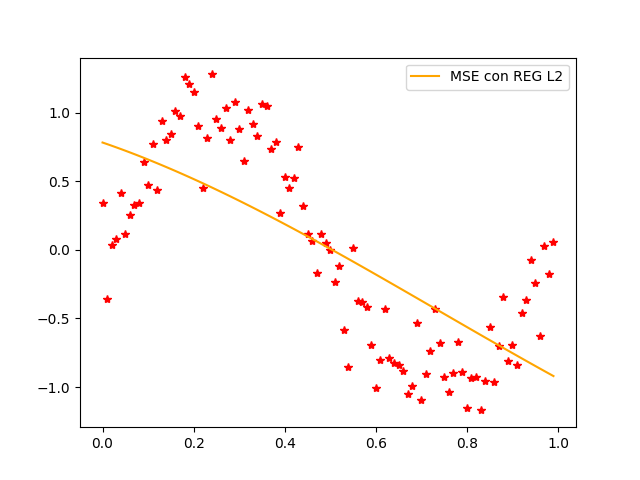
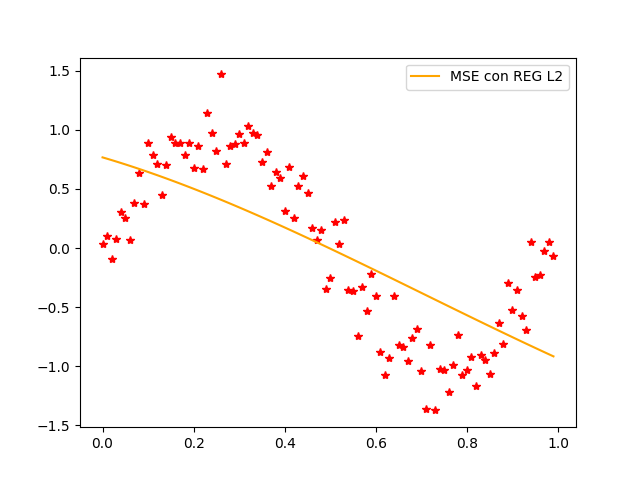
Sample random data txt Update imgs

diff --git a/main.py b/main.py
@@ -6,16 +6,30 @@ import numpy as np
 import matplotlib.pyplot as plt
 
 if __name__ == '__main__':
-    x_temp = np.arange(0, 1, 0.01)
-    y_temp = [np.sin(2 * i * np.pi) + np.random.normal(0, 0.2) for i in x_temp]
+    #x_temp = np.arange(0, 1, 0.01)
+    #y_temp = [np.sin(2 * i * np.pi) + np.random.normal(0, 0.2) for i in x_temp]
     #x_temp = [0.,   0.05, 0.1,  0.15, 0.2,  0.25, 0.3,  0.35, 0.4,  0.45, 0.5,  0.55, 0.6,  0.65, 0.7,  0.75, 0.8,  0.85, 0.9,  0.95]
     #y_temp = [-0.08689237658958435, 0.4548941435012709, 0.4312948104649044, 0.9309011151536833, 0.7717900271877763, 1.018389804588197, 1.0972791099536208, 0.9462734992156075, 0.3911055917305431, 0.4241021343207704, 0.2307095831027754, -0.5737502875585576, -0.8575154310342636, -0.39833869857922777, -1.0319552596206825, -1.10873846045265, -1.370575786122702, -1.0767381754270857, -0.27969167401880746, -0.313537625428634]
+
+    x_temp = []
+    y_temp = []
+    with open('x_ds.txt') as file:
+        for row in file:
+            line = row.strip()
+            x_temp.append(float(line))
+
+    with open('y_ds.txt') as file:
+        for row in file:
+            line = row.strip()
+            y_temp.append(float(line))
 
     x = np.array([x_temp])
     y = np.array([y_temp])
 
     plt.plot(x[0], y[0], "*", color="red")
+    plt.savefig("Random_sample_data.png")
     plt.show()
+    plt.close()
 
     w = np.array([np.random.rand(4)])
 

diff --git a/NoLineal.py b/NoLineal.py
@@ -32,7 +32,6 @@ class NoLineal:
             # [[w1,w2,w3]]
             g_l2 = np.array([self.error.gradienteREG_L2(self.model, self.x, self.y, self.w_L2, self.lamb)])
             self.w_L2 = self.w_L2 - self.alpha * g_l2
-
             if epoch % 1000 == 0:
                 print("epoch:", epoch, "\t", self.norma + "_REG_L1:", round(self.error.errorREG_L1(self.model, self.x,
                                                                                                    self.y, self.w_L1,
